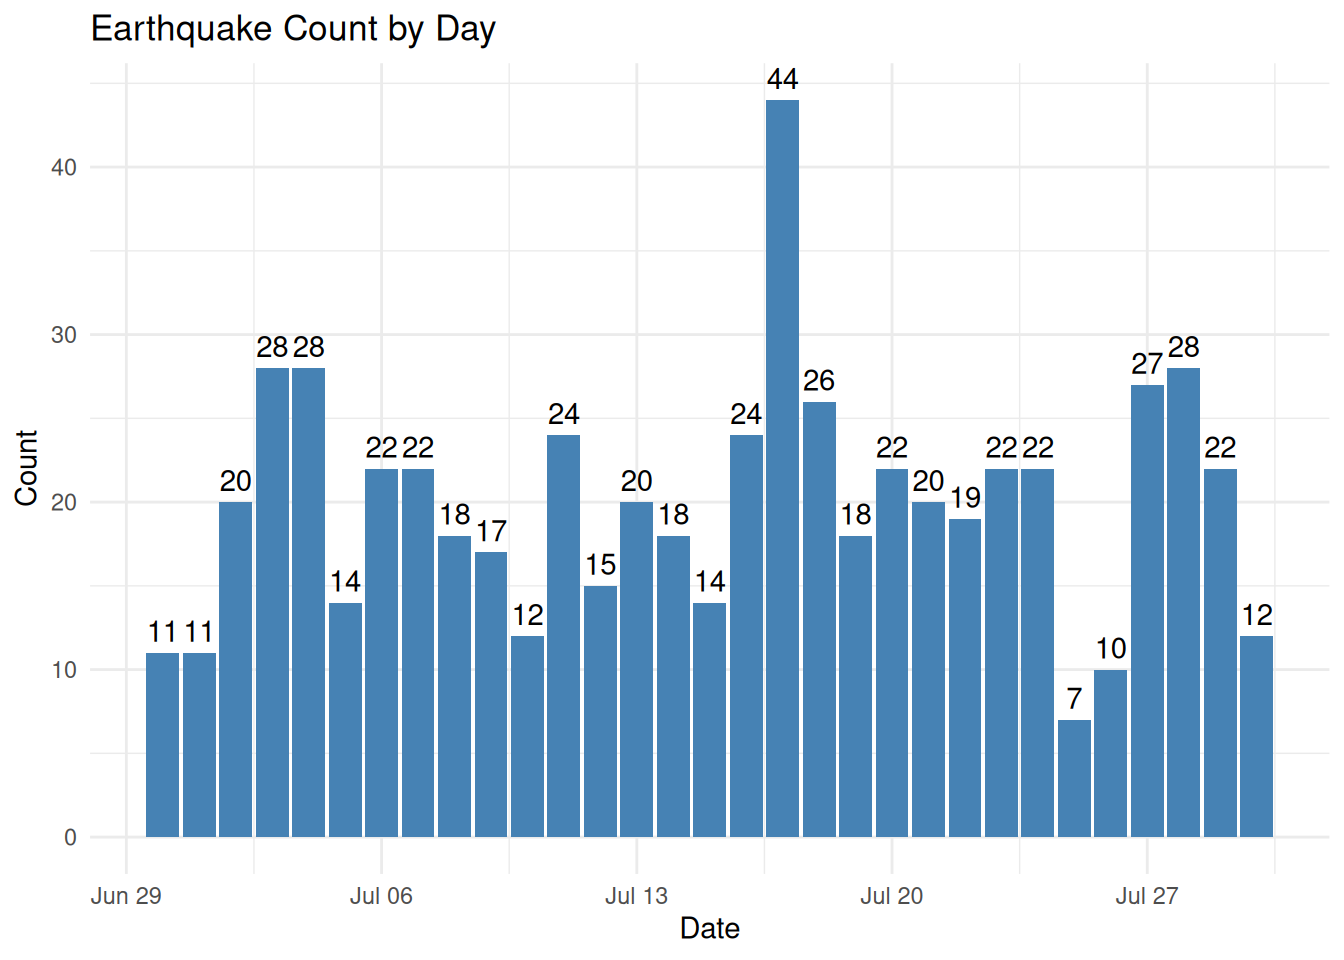
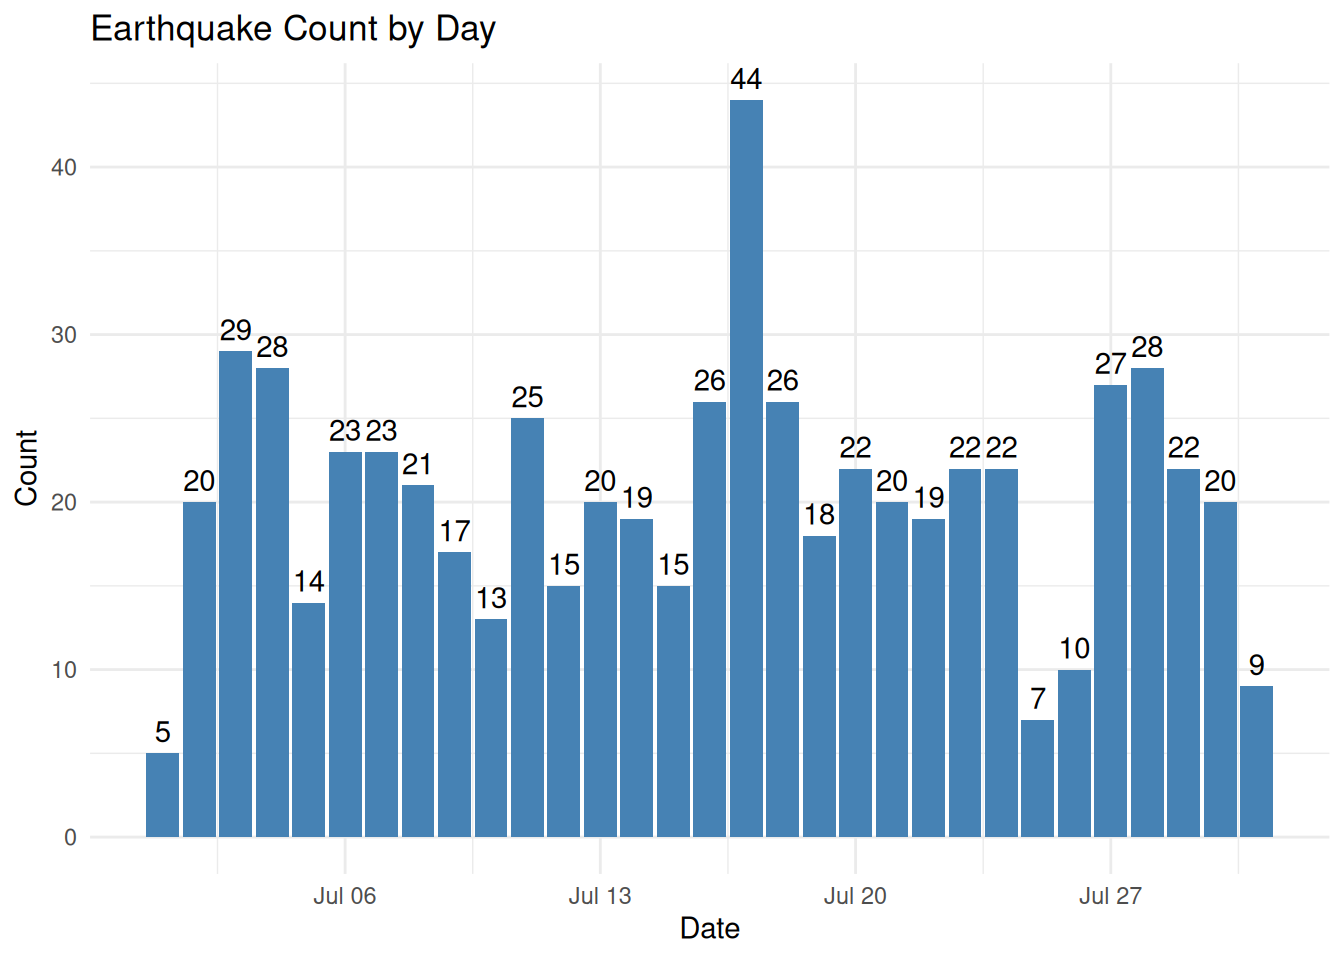
Built site for gh-pages

diff --git a/report.html b/report.html
@@ -193,7 +193,7 @@ pre > code.sourceCode > span > a:first-child::before { text-decoration: underlin
 <div class="cell">
 <div class="code-copy-outer-scaffold"><div class="sourceCode cell-code" id="cb3"><pre class="sourceCode r code-with-copy"><code class="sourceCode r"><span id="cb3-1"><a href="#cb3-1" aria-hidden="true" tabindex="-1"></a>total_earthquakes <span class="ot">&lt;-</span> <span class="fu">nrow</span>(clean)</span></code></pre></div><button title="Copy to Clipboard" class="code-copy-button"><i class="bi"></i></button></div>
 </div>
-<p>The total number of earthquakes in the last 30 days was 617</p>
+<p>The total number of earthquakes in the last 30 days was 629</p>
 <div class="cell">
 <div class="code-copy-outer-scaffold"><div class="sourceCode cell-code" id="cb4"><pre class="sourceCode r code-with-copy"><code class="sourceCode r"><span id="cb4-1"><a href="#cb4-1" aria-hidden="true" tabindex="-1"></a>daily_summary <span class="ot">&lt;-</span> clean <span class="sc">|&gt;</span></span>
 <span id="cb4-2"><a href="#cb4-2" aria-hidden="true" tabindex="-1"></a>  <span class="fu">group_by</span>(<span class="at">date =</span> <span class="fu">as.Date</span>(time)) <span class="sc">|&gt;</span></span>
@@ -206,16 +206,16 @@ pre > code.sourceCode > span > a:first-child::before { text-decoration: underlin
 <pre><code># A tibble: 31 × 2
    date       count
    &lt;date&gt;     &lt;int&gt;
- 1 2026-06-30    11
- 2 2026-07-01    11
- 3 2026-07-02    20
- 4 2026-07-03    28
- 5 2026-07-04    28
- 6 2026-07-05    14
- 7 2026-07-06    22
- 8 2026-07-07    22
- 9 2026-07-08    18
-10 2026-07-09    17
+ 1 2026-07-01     5
+ 2 2026-07-02    20
+ 3 2026-07-03    29
+ 4 2026-07-04    28
+ 5 2026-07-05    14
+ 6 2026-07-06    23
+ 7 2026-07-07    23
+ 8 2026-07-08    21
+ 9 2026-07-09    17
+10 2026-07-10    13
 # ℹ 21 more rows</code></pre>
 </div>
 </div>
